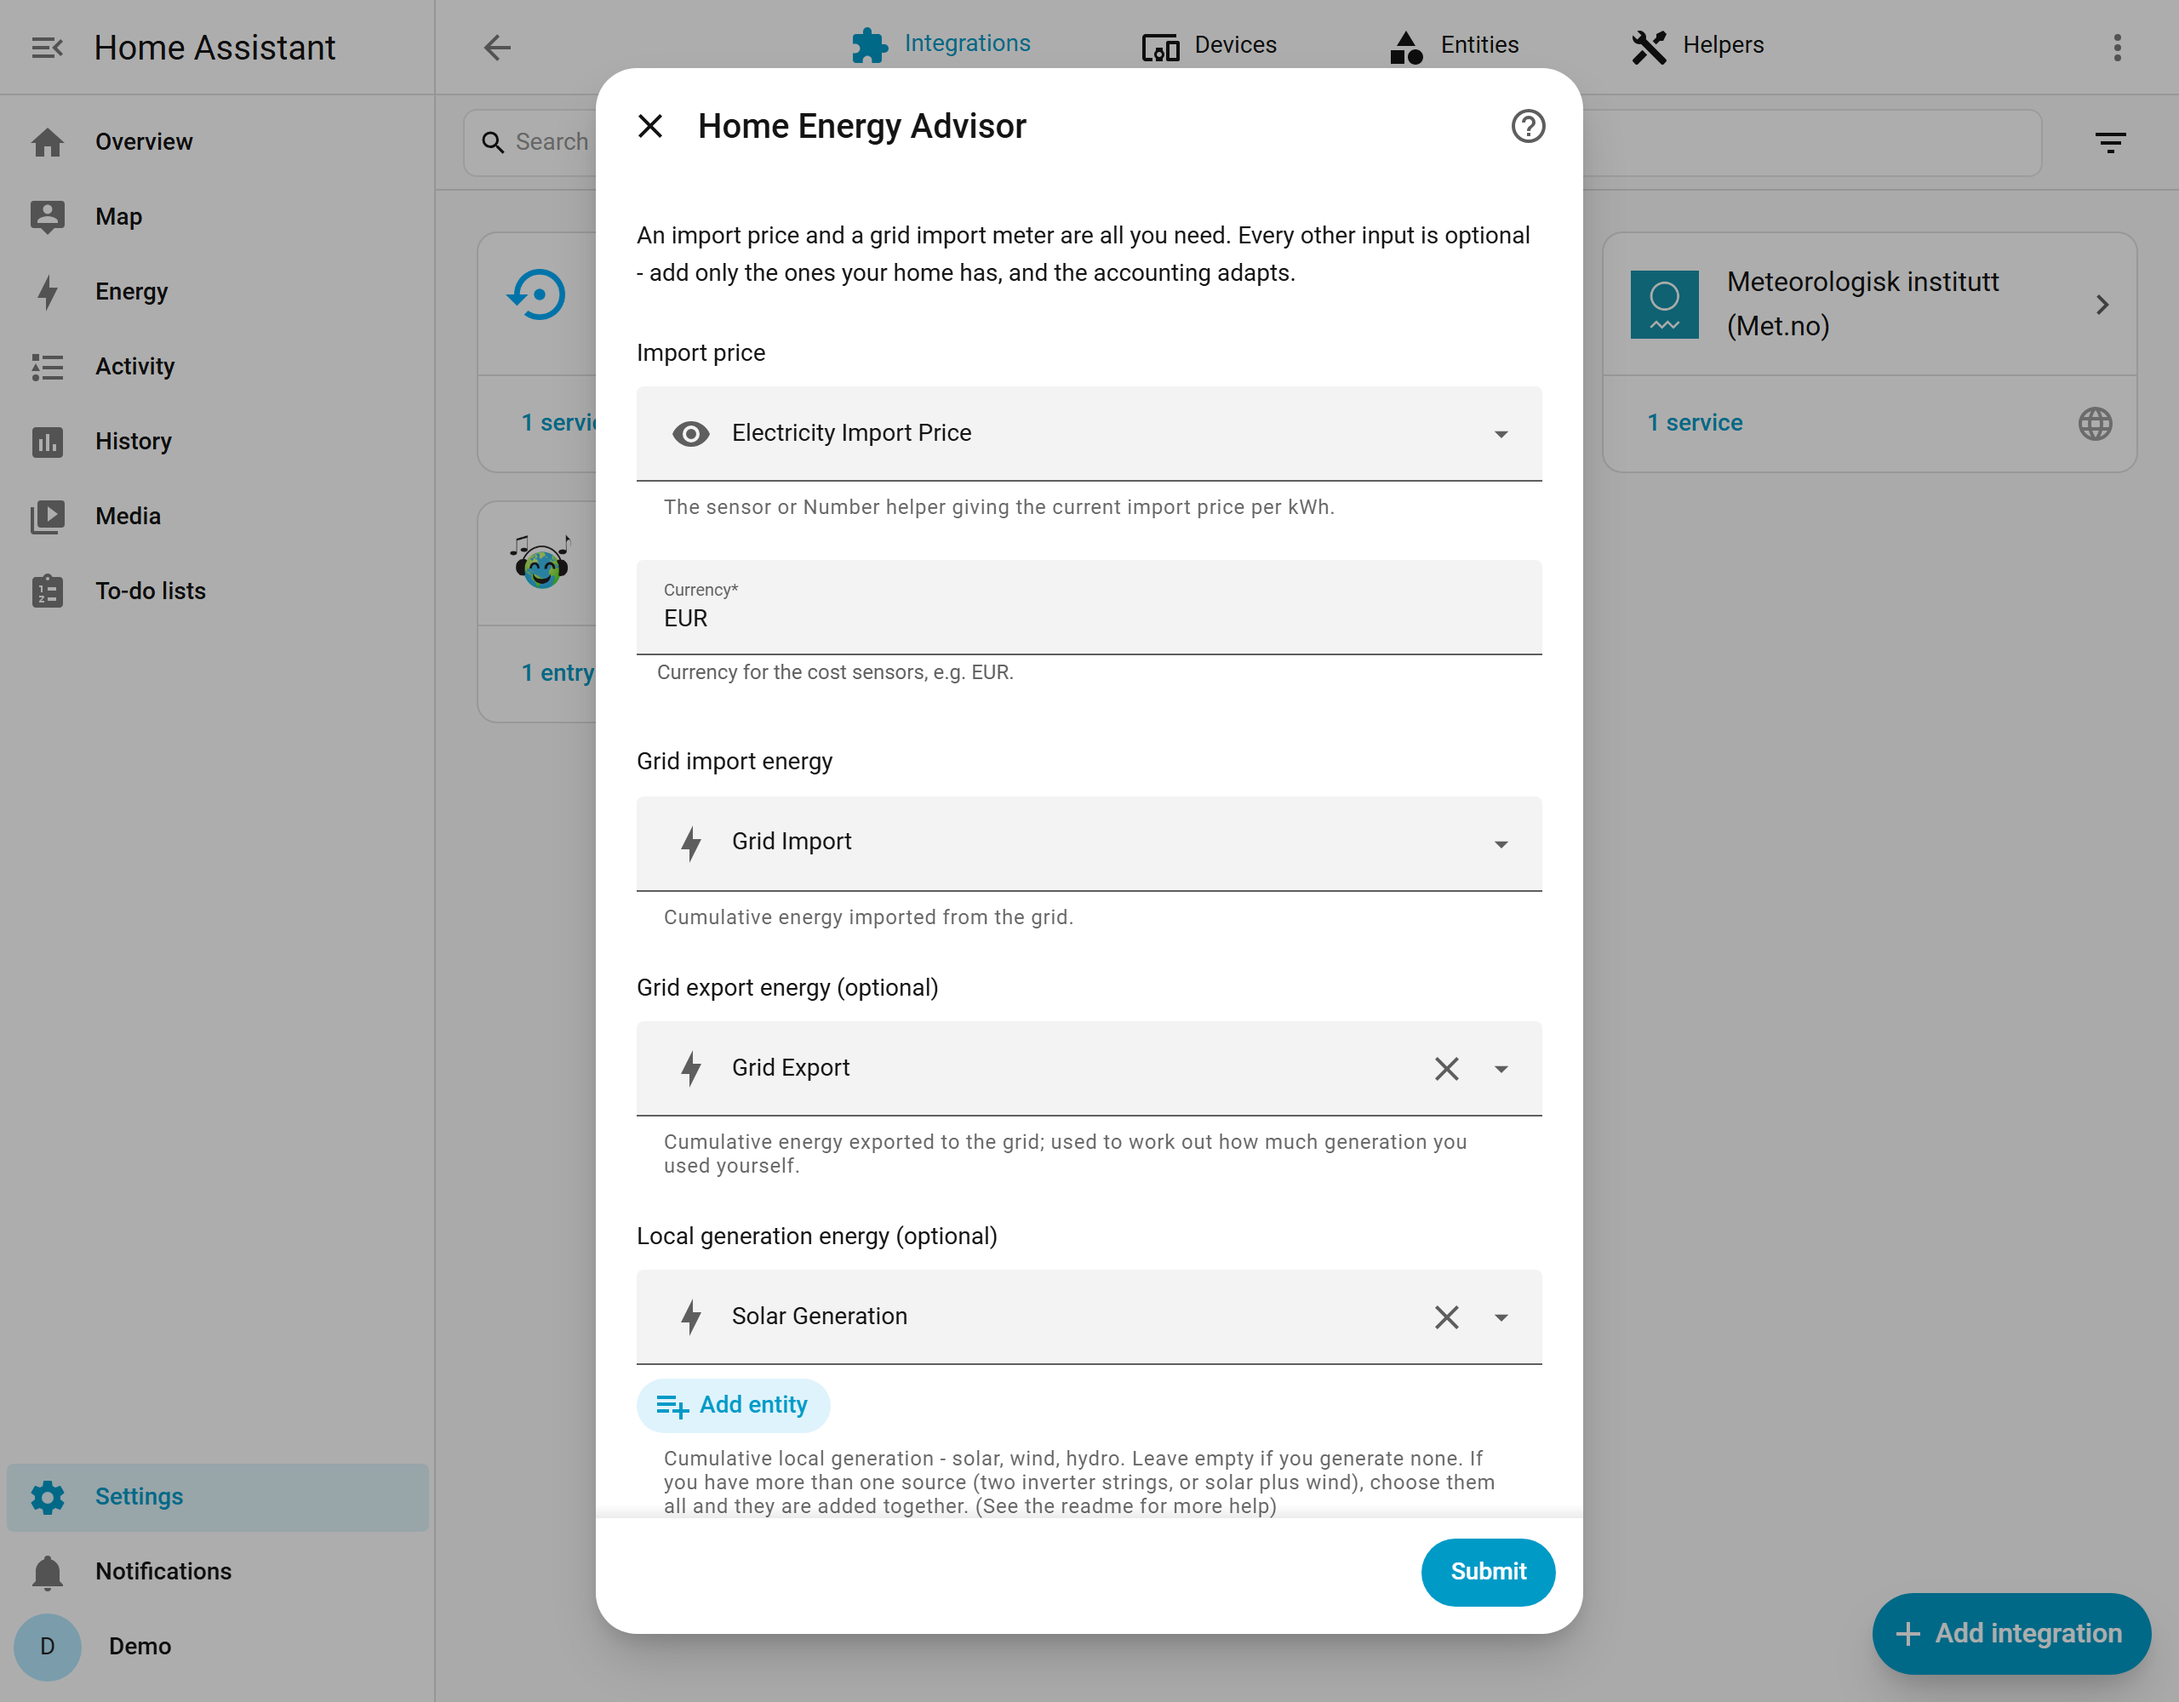
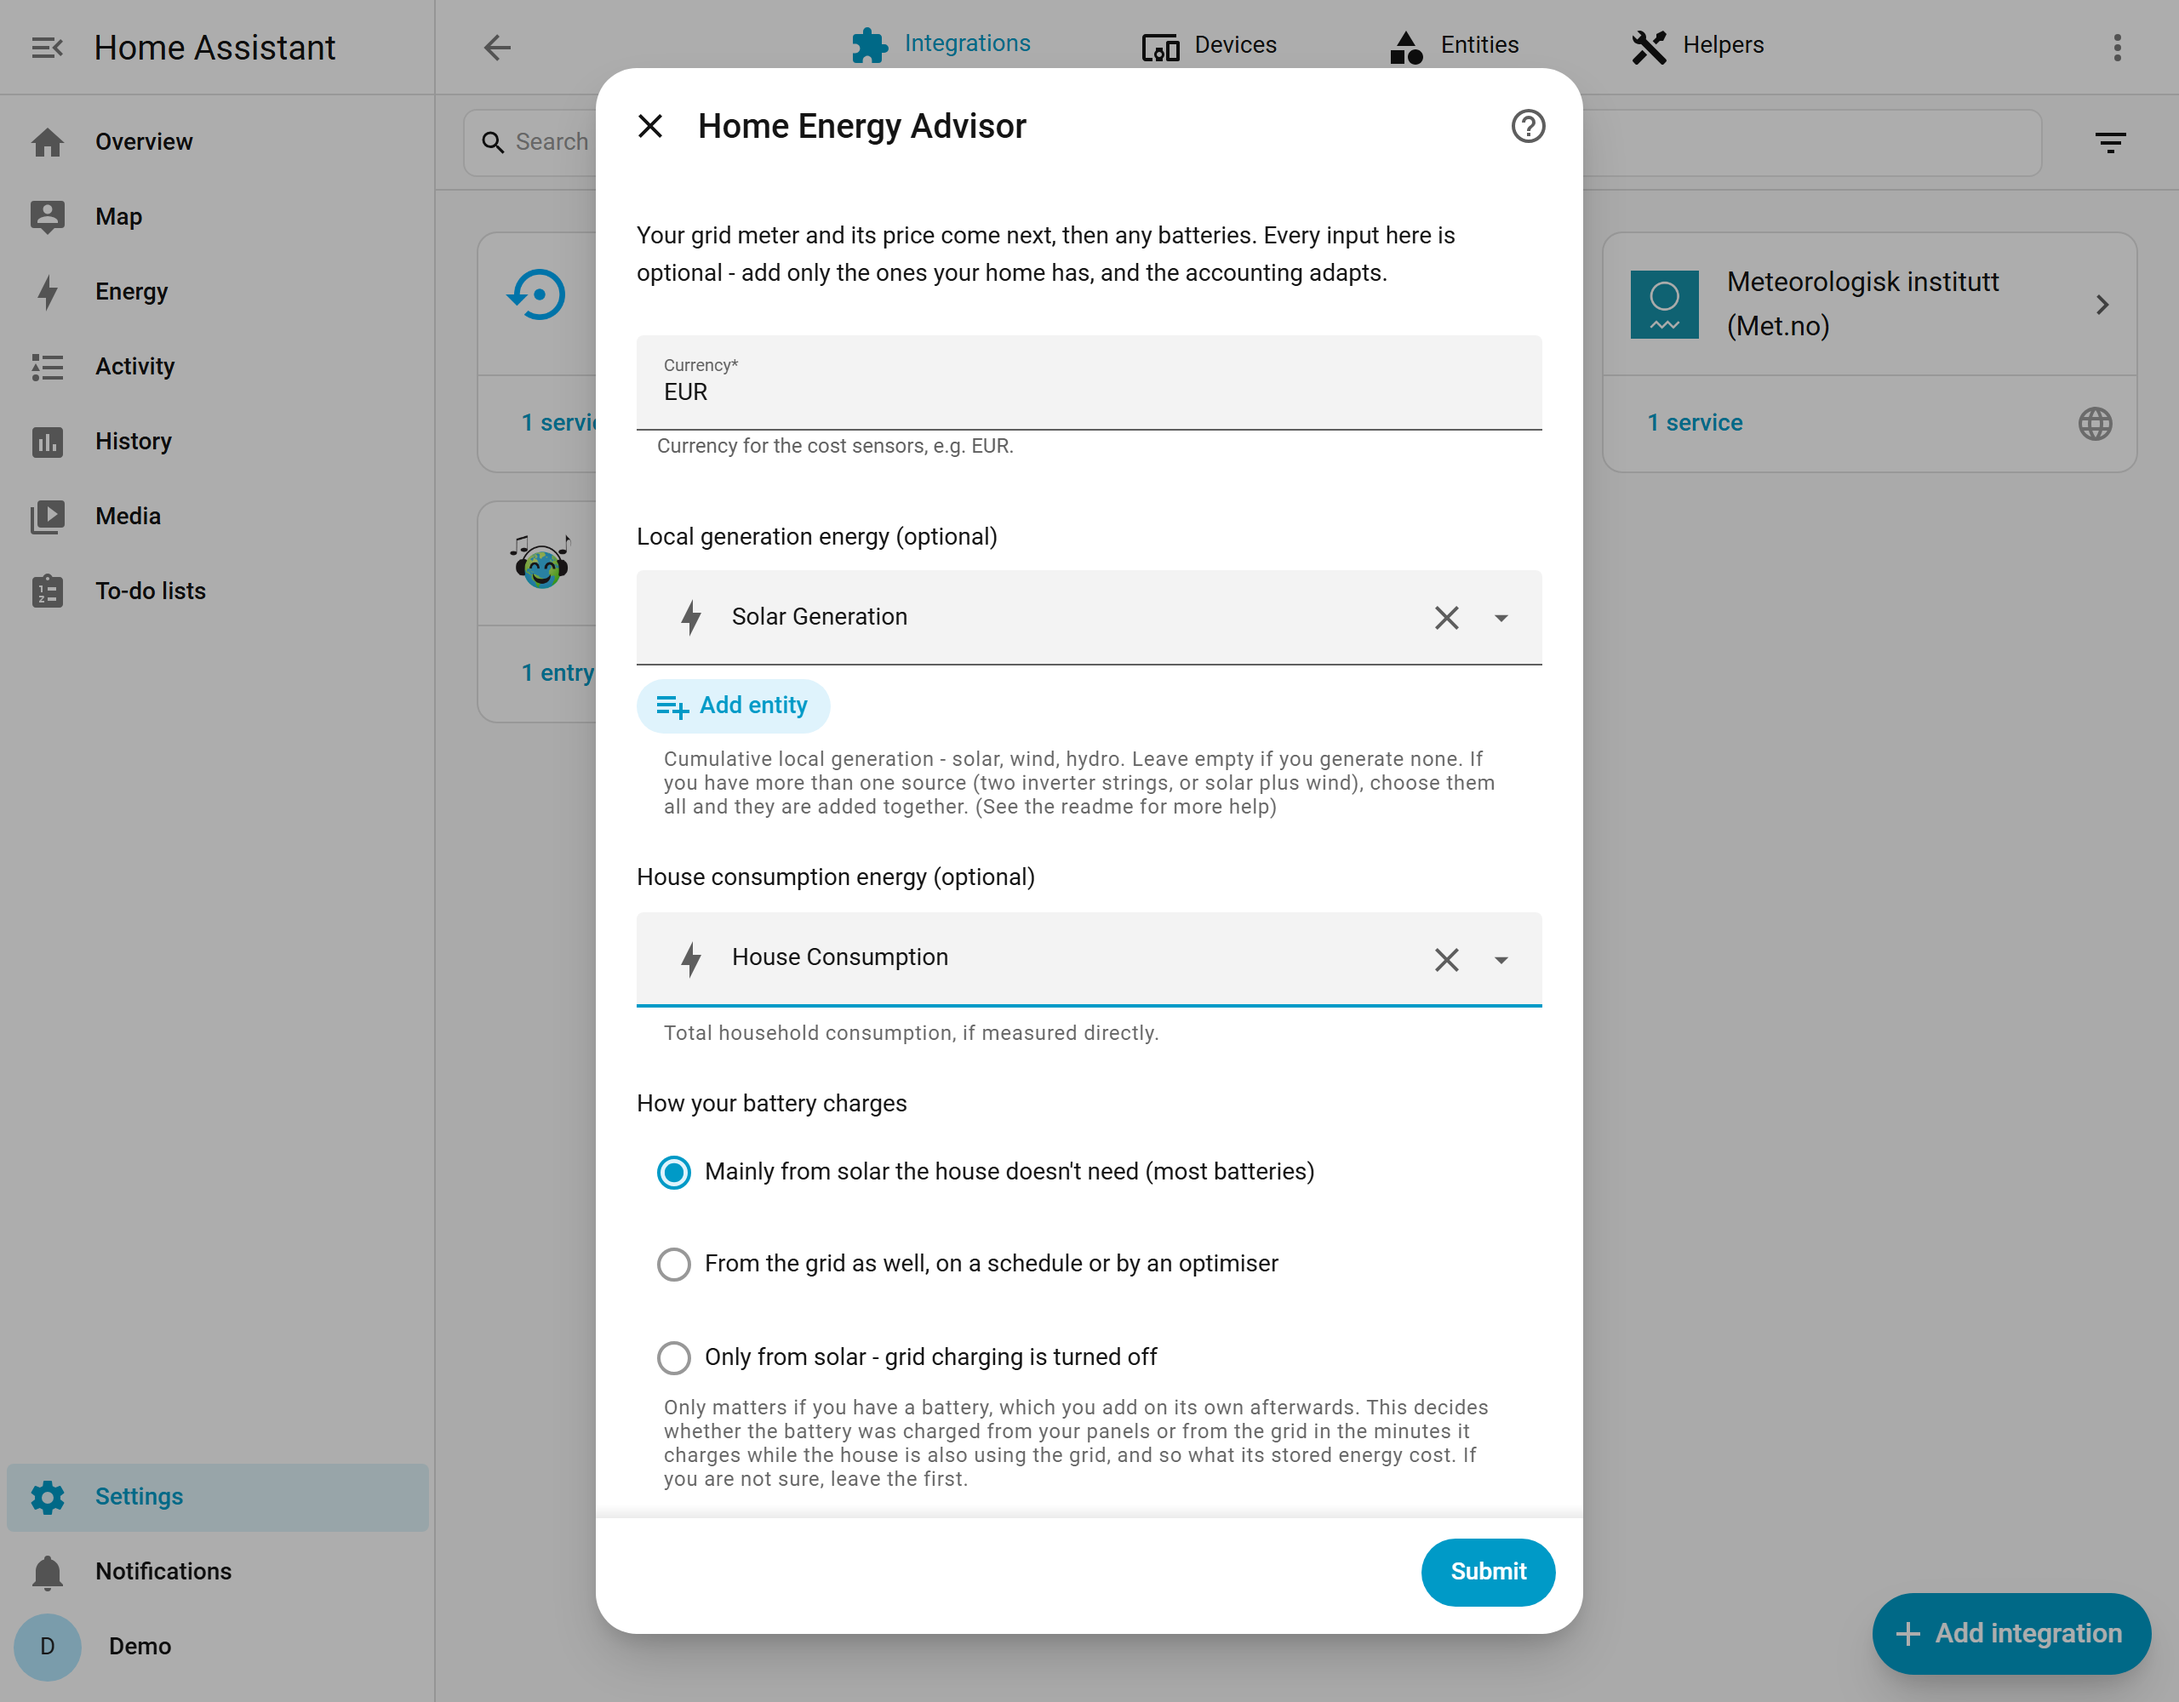
feat(HEA-221): enter each grid meter and tariff register as its own source
A household with a day and a night register, or more than one grid meter,
can now enter each one with its own price, as the Energy Dashboard holds
them. Each interval's import is priced register by register. The grid
meter moves to an entry of its own and its figures carry on, a price can
be typed in as a number, and a change to the Energy Dashboard's grid
meters is offered through the same Repair as its batteries (ADR-0032).

Changed region(s): [[0.2812, 0.248, 0.6875, 0.899], [0.2812, 0.124, 0.6875, 0.217]]

diff --git a/README.md b/README.md
@@ -39,11 +39,11 @@ figures sit at zero because there is nothing to save against.
 ## What you need
 
 - Home Assistant 2026.7 or newer.
-- **A grid connection**, with a sensor giving your current import price per kWh.
-  Dynamic tariff integrations provide one. On a fixed rate, create a Number
-  helper and type your rate into it.
+- **A grid connection**, with your import price per kWh: a sensor, which dynamic
+  tariff integrations provide, or on a fixed rate simply the rate itself.
 - **A cumulative grid import energy sensor**, in kWh or Wh. If you have set up
-  the Energy Dashboard you already have one.
+  the Energy Dashboard you already have one. A meter with a day and a night
+  rate usually has one for each, and both can be added, each with its own price.
 - **An energy or power sensor for each device you want to track.** Smart plugs,
   clamp meters and many appliances provide one. You do not need to track
   everything, or even most things - whatever you do not track is grouped into a
@@ -118,11 +118,11 @@ Go to **Settings** > **Devices & services** > **Add integration** and search for
 
 ### The house
 
-![The house inputs step of the setup, with the import price and grid import meter filled in](https://raw.githubusercontent.com/consultingtedds/ha-home-energy-advisor/main/docs/images/setup-house-inputs.png)
+![The house inputs step of the setup, with the currency, generation and house consumption filled in](https://raw.githubusercontent.com/consultingtedds/ha-home-energy-advisor/main/docs/images/setup-house-inputs.png)
 
-The first screen asks about your house as a whole. **Only two of these are
-required: the import price and the grid import meter.** Every other field is
-optional, and the accounting adapts to what you give it.
+The first screen asks about your house as a whole. **None of it is required
+beyond the currency.** Every other field is optional, and the accounting adapts
+to what you give it. Your grid meters and batteries come next, each on its own.
 
 **The Energy Dashboard is the best place to enter your meters.** Whatever it
 holds is filled in for you here, and if you change it there later, Home Energy
@@ -133,10 +133,7 @@ changes without you saying so.
 
 | Input | Required | What to choose |
 | --- | --- | --- |
-| Import price | Yes | The sensor holding your current price per kWh |
 | Currency | Yes | The currency your cost sensors report in, such as GBP or EUR |
-| Grid import energy | Yes | Your cumulative import meter, in kWh or Wh |
-| Grid export energy | No | Your cumulative export meter |
 | Local generation energy | No | Cumulative generation of your own, whatever the source |
 | House consumption energy | No | Total household consumption, if you measure it directly |
 | How your battery charges | Yes, preset | Mainly from spare solar, from the grid as well, or only from solar - see below |
@@ -148,8 +145,9 @@ proportion, so one wrong house-level input makes every device's figure wrong.
 
 #### When generation and export actually matter
 
-This is the part worth reading twice, because it decides whether two of those
-fields do anything at all for you.
+This is the part worth reading twice, because it decides whether two fields - the
+generation here and the export meter on your grid meter - do anything at all for
+you.
 
 To work out what a unit of electricity cost, Home Energy Advisor has to know how
 much of your own generation the house used rather than exported. There are two
@@ -211,6 +209,41 @@ on why the battery was charging:
 It decides whether the energy in your battery cost what the grid charged or
 nothing, and so what your devices are charged when the battery later runs them.
 If you are not sure, leave the preset.
+
+### Your grid meters
+
+Each grid meter is entered on its own, with the same details the Energy
+Dashboard holds for a grid source:
+
+| Input | Required | What to choose |
+| --- | --- | --- |
+| Name | Yes | How the grid meter appears in Home Assistant |
+| Grid import energy | Yes | Its cumulative import meter, in kWh or Wh |
+| Import price | One of these two | The sensor or Number helper holding its current price per kWh |
+| Fixed import price | One of these two | Its price per kWh, if it never changes |
+| Grid export energy | No | Its cumulative export meter |
+
+![The grid meters step of the setup, listing a day and a night register from the Energy Dashboard, both ticked](https://raw.githubusercontent.com/consultingtedds/ha-home-energy-advisor/main/docs/images/setup-grid-meters.png)
+
+If your Energy Dashboard has grid meters, setup lists them after the house
+screen, each with its price, and you tick the ones to include. Tick none to
+enter your own instead. To add one later, select **Add grid meter** on the Home
+Energy Advisor card in **Settings** > **Devices & services**; a grid meter in your
+Energy Dashboard that is not added yet is filled in for you.
+
+**A meter with a day and a night rate is two grid meters.** Most of them publish
+a counter for each rate, and the Energy Dashboard holds each as its own grid
+source with its own price. Add both: the energy each one counts is priced at its
+own rate, so a device run overnight is charged the night rate. With one counter
+and one price, every kWh would be priced the same.
+
+**A standing charge is not a grid meter.** The Energy Dashboard lets you price
+a standing charge by declaring it as a grid source, and setup leaves any source
+that is not counted in kWh or Wh out of its list. Home Energy Advisor prices the
+energy your devices use, not your bill, so a daily fee has no place in it.
+
+The export price is read from the Energy Dashboard, as before: what you are paid
+for exporting is set there once.
 
 ### Your batteries
 
@@ -311,22 +344,23 @@ sits empty. That is a house with no labels, not a broken filter.
 
 ### Settings you can change later
 
-Everything on the house screen - the price, the meters, how your battery
-charges - can be changed at any time: **Settings** > **Devices & services** >
-**Home Energy Advisor** > three-dot menu > **Reconfigure**. Empty a field to
-remove that input altogether. Each battery is changed or removed on its own entry
-under the integration, with **Edit battery**. Either way the change counts from
-then on; figures already recorded stay as they are.
+Everything on the house screen - the meters, how your battery charges - can be
+changed at any time: **Settings** > **Devices & services** > **Home Energy
+Advisor** > three-dot menu > **Reconfigure**. Empty a field to remove that input
+altogether. Each grid meter and each battery is changed or removed on its own
+entry under the integration, with **Edit grid meter** or **Edit battery**. Either
+way the change counts from then on; figures already recorded stay as they are.
 
 #### When the Energy Dashboard changes
 
-If the batteries in your Energy Dashboard stop matching the ones entered here -
-you added one there, or gave one a level and capacity - a notice appears in
-**Settings** > **Repairs** listing both, with two answers:
+If the batteries or grid meters in your Energy Dashboard stop matching the ones
+entered here - you added one there, gave a battery a level and capacity, or
+changed a grid meter's price - a notice appears in **Settings** > **Repairs**
+listing both, with two answers:
 
-- **Take the Energy Dashboard's batteries.** They are entered here exactly as if
-  you had edited them yourself. A battery with the same meters keeps its name and
-  its figures.
+- **Take the Energy Dashboard's.** They are entered here exactly as if you had
+  edited them yourself. A battery with the same meters, or a grid meter with the
+  same import meter, keeps its name and its figures.
 - **Keep mine.** Nothing changes. You may have chosen different meters here on
   purpose - a lifetime counter rather than a daily one, say - and you are not
   asked again until the Energy Dashboard changes once more.
@@ -686,8 +720,8 @@ for you your own generation really is free.
 
 ## What it does not do
 
-- **It needs a grid connection.** An import price and a grid import meter are
-  both required, and the comparison the whole product is built on - what you
+- **It needs a grid connection.** A grid meter with its import price is
+  required, and the comparison the whole product is built on - what you
   paid, against what the grid would have charged for the same energy - has no
   meaning without a grid tariff to compare to. **Off-grid homes are not
   supported.**

diff --git a/docs/UPGRADING.md b/docs/UPGRADING.md
@@ -58,9 +58,9 @@ Dashboard already lists them, a notice in **Settings** > **Repairs** offers to
 take them in place of the summed one. Your figures carry on either way.
 
 **You may see that notice even with one battery.** It appears whenever the
-batteries in your Energy Dashboard differ from the ones here. If you chose
-different meters here on purpose, choose **Keep mine**, and you will not be
-asked again until the Energy Dashboard changes.
+batteries or grid meters in your Energy Dashboard differ from the ones here. If
+you chose different meters here on purpose, choose **Keep mine**, and you will
+not be asked again until the Energy Dashboard changes.
 
 **If you filled in your battery's capacity, check it is in kWh.** The field now
 refuses anything above 200, because no home battery holds that much and the
@@ -73,6 +73,18 @@ earned.** It read nothing under Could have earned before. The lost energy is
 now valued at what export paid when it was stored, and Whole Home's Could have
 earned rises by the same amount. Paid does not change. The new figure counts
 from this release, so read it over a period that starts after the update.
+
+**Your grid meter now has an entry of its own**, under the integration beside
+your devices and batteries, and its import meter, price and export meter have
+moved there from the house settings. Nothing about it changes, and your figures
+carry on. To change it, open it and choose **Edit grid meter**.
+
+**If your meter has a day and a night rate, you can enter each register now.**
+Choose **Add grid meter** and give the second register its own price: a sensor,
+or simply the rate. Each register's energy is then priced at its own rate. If
+you had added the two together with a helper, replace it with the two
+registers. A price can now be typed in as a number, so a fixed rate no longer
+needs a Number helper.
 
 ## 0.12.0
 

diff --git a/docs/PLAN.md b/docs/PLAN.md
@@ -659,13 +659,16 @@ Carried forward rather than closed:
   and stayed cleared across the reload. The Discussion 42 household's two
   batteries are the test that matters; stable 0.13.0 waits on their report.
   HEA-221 extends the same Repair to grid meters.
-- **HEA-221 is decided** (ADR-0032): each grid source a config subentry, its
+- **HEA-221 is built** (ADR-0032): each grid source a config subentry, its
   price a sensor, Number helper or plain number, prefilled from the Energy
   Dashboard with a source that is not an energy counter (a standing charge)
   left out. Each interval's import is priced per register and blended, with the
   plain average where nothing imported. Export meters add up and the export
-  price stays the one read live today. Built, and held until 0.13.0 is cut,
-  because a release is cut from `main`.
+  price stays the one read live today. Config entry v7 moves the old meter and
+  price into one grid entry, and the Energy Dashboard change Repair covers grid
+  meters, with an answer given before the grid was compared counting for the
+  grid as it stands. The demo house is dual-rate. It is held back until 0.13.0
+  is cut, because a release is cut from `main`.
 - **HEA-97** - its third item was HEA-38 and is done. Standing charges and export
   payback remain, and the second is harder to leave alone now that a household
   can see what their export was worth. ADR-0029 now frames the answer: both are
